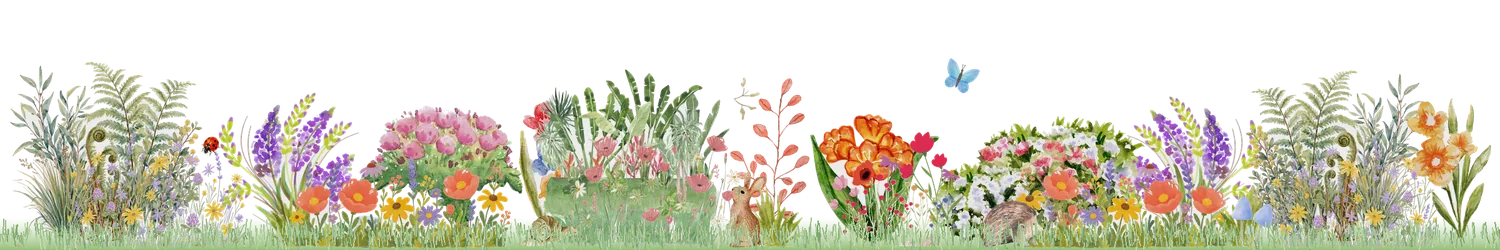
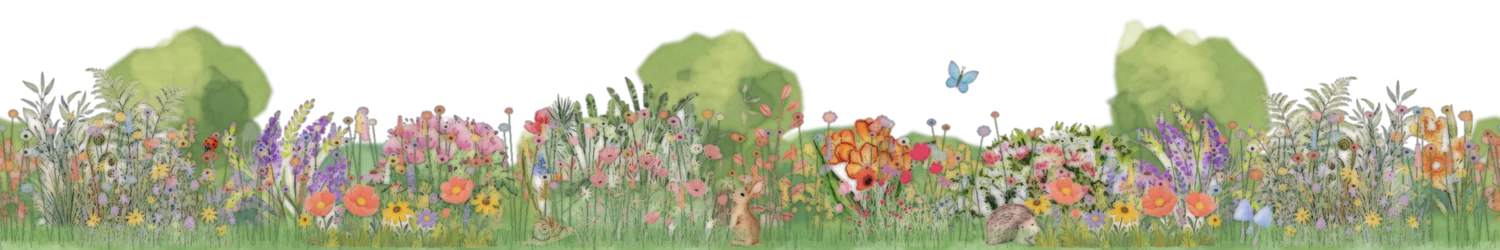
Watercolour repaint: welcome garden with creek and lilies, painted border, shed in its own garden; art guide
- New paint script hand-paints sky, hills, trees, creek, water lilies, bulrushes, shrubs and wildflowers, then one watercolour pass unifies everything
- Welcome garden adds a creek and lily pool, painted flower beds by the wisteria gate, a wooden welcome chair and table under a tree
- Flower border is fuller: painted hedges and trees behind, wildflowers throughout
- Resources page companion is now the shed in its own little garden with trees and flowers
- docs/CGN_Garden_Art_Guide.md: the look, palette, painting rules and cast (draft for Kate)

diff --git a/CGN_Hub.html b/CGN_Hub.html
@@ -1149,6 +1149,11 @@ a.doc-item:hover{transform:translateY(-2px); box-shadow:0 6px 0 var(--wood-dark)
 
 /* leaf bullet in link lists */
 .info-block li>.g-ico, #rl p>.g-ico, li>.g-ico{width:19px; height:19px; vertical-align:-4px; margin-right:3px}
+
+/* painted vignette companions (e.g. the shed in its own garden) */
+.page-critter.scene{height:150px; max-width:200px; right:12px; bottom:-58px}
+.page-head.has-art:has(.scene){padding-right:210px}
+@media (max-width:780px){ .page-critter.scene{height:96px; max-width:124px; bottom:-40px} .page-head.has-art:has(.scene){padding-right:120px} }
 </style>
 </head>
 <body data-font="garden" data-bg="garden" data-sky="day">
@@ -1410,7 +1415,7 @@ function followCard(){
 /* ── Cozy secret-garden layer (injected by build_comm.py at GARDEN_JS) ──
    Welcome banner, page companions, garden almanac (live Ottawa forecast from
    Open-Meteo; monthly jobs from content/hub.json → "almanac"), incident form. */
-const G_ART={about:'bluebird',article:'armchair',find:'rabbit',start:'watering-can',coordinators:'hedgehog',guides:'carrots',faq:'snail','ws-upcoming':'chair-tools','ws-past':'greenhouse','ws-slides':'dragonfly',resources:'shed',contact:'door',incident:'lighthouse'};
+const G_ART={about:'bluebird',article:'armchair',find:'rabbit',start:'watering-can',coordinators:'hedgehog',guides:'carrots',faq:'snail','ws-upcoming':'chair-tools','ws-past':'greenhouse','ws-slides':'dragonfly',resources:'shed-scene',contact:'door',incident:'lighthouse'};
 /* Hand-drawn icon set in CGN colours (brick bowl, leaf green, straw, wood). Used in the sidebar, page titles and home tiles. */
 const G_ICO={
  home:`<path d="M4 15 16 5l12 10z" fill="#F38DB5"/><path d="M7 15v12h18V15" fill="#E9C592"/><path d="M13.5 27v-7.5h5V27" fill="#8A5A30"/><circle cx="22" cy="19.5" r="1.9" fill="#CFE6F7"/>`,
@@ -1433,7 +1438,7 @@ const G_ICO={
 };
 const gIco=k=>G_ICO[k]?`<svg class="g-ico" viewBox="0 0 32 32" fill="none" stroke="#4A3426" stroke-width="1.7" stroke-linecap="round" stroke-linejoin="round" aria-hidden="true">${G_ICO[k]}</svg>`:'';
 const gImg=(n,c)=>`<img class="${c}" src="assets/garden/${n}.webp" alt="" aria-hidden="true">`;
-function head(title,sub,key){const a=G_ART[key];return `<div class="page-head${a?' has-art':''}"><h1 class="page-title">${gIco(key)}${title}</h1>${sub?`<p class="page-sub">${sub}</p>`:''}${a?gImg(a,'page-critter'):''}</div><div class="tulips" aria-hidden="true"></div>`}
+function head(title,sub,key){const a=G_ART[key];return `<div class="page-head${a?' has-art':''}"><h1 class="page-title">${gIco(key)}${title}</h1>${sub?`<p class="page-sub">${sub}</p>`:''}${a?gImg(a,a.endsWith('-scene')?'page-critter scene':'page-critter'):''}</div><div class="tulips" aria-hidden="true"></div>`}
 function gardenSideArt(){return `<div class="sidebar-art">${gImg('shed','side-shed')}</div>`}
 function gardenHero(){
   return `<div class="hero">${gImg('wisteria','hero-wisteria')}${gImg('wisteria','hero-wisteria r')}

diff --git a/source/garden.js b/source/garden.js
@@ -1,7 +1,7 @@
 /* ── Cozy secret-garden layer (injected by build_comm.py at GARDEN_JS) ──
    Welcome banner, page companions, garden almanac (live Ottawa forecast from
    Open-Meteo; monthly jobs from content/hub.json → "almanac"), incident form. */
-const G_ART={about:'bluebird',article:'armchair',find:'rabbit',start:'watering-can',coordinators:'hedgehog',guides:'carrots',faq:'snail','ws-upcoming':'chair-tools','ws-past':'greenhouse','ws-slides':'dragonfly',resources:'shed',contact:'door',incident:'lighthouse'};
+const G_ART={about:'bluebird',article:'armchair',find:'rabbit',start:'watering-can',coordinators:'hedgehog',guides:'carrots',faq:'snail','ws-upcoming':'chair-tools','ws-past':'greenhouse','ws-slides':'dragonfly',resources:'shed-scene',contact:'door',incident:'lighthouse'};
 /* Hand-drawn icon set in CGN colours (brick bowl, leaf green, straw, wood). Used in the sidebar, page titles and home tiles. */
 const G_ICO={
  home:`<path d="M4 15 16 5l12 10z" fill="#F38DB5"/><path d="M7 15v12h18V15" fill="#E9C592"/><path d="M13.5 27v-7.5h5V27" fill="#8A5A30"/><circle cx="22" cy="19.5" r="1.9" fill="#CFE6F7"/>`,
@@ -24,7 +24,7 @@ const G_ICO={
 };
 const gIco=k=>G_ICO[k]?`<svg class="g-ico" viewBox="0 0 32 32" fill="none" stroke="#4A3426" stroke-width="1.7" stroke-linecap="round" stroke-linejoin="round" aria-hidden="true">${G_ICO[k]}</svg>`:'';
 const gImg=(n,c)=>`<img class="${c}" src="assets/garden/${n}.webp" alt="" aria-hidden="true">`;
-function head(title,sub,key){const a=G_ART[key];return `<div class="page-head${a?' has-art':''}"><h1 class="page-title">${gIco(key)}${title}</h1>${sub?`<p class="page-sub">${sub}</p>`:''}${a?gImg(a,'page-critter'):''}</div><div class="tulips" aria-hidden="true"></div>`}
+function head(title,sub,key){const a=G_ART[key];return `<div class="page-head${a?' has-art':''}"><h1 class="page-title">${gIco(key)}${title}</h1>${sub?`<p class="page-sub">${sub}</p>`:''}${a?gImg(a,a.endsWith('-scene')?'page-critter scene':'page-critter'):''}</div><div class="tulips" aria-hidden="true"></div>`}
 function gardenSideArt(){return `<div class="sidebar-art">${gImg('shed','side-shed')}</div>`}
 function gardenHero(){
   return `<div class="hero">${gImg('wisteria','hero-wisteria')}${gImg('wisteria','hero-wisteria r')}

diff --git a/source/garden_theme.css b/source/garden_theme.css
@@ -301,3 +301,8 @@ a.doc-item:hover{transform:translateY(-2px); box-shadow:0 6px 0 var(--wood-dark)
 
 /* leaf bullet in link lists */
 .info-block li>.g-ico, #rl p>.g-ico, li>.g-ico{width:19px; height:19px; vertical-align:-4px; margin-right:3px}
+
+/* painted vignette companions (e.g. the shed in its own garden) */
+.page-critter.scene{height:150px; max-width:200px; right:12px; bottom:-58px}
+.page-head.has-art:has(.scene){padding-right:210px}
+@media (max-width:780px){ .page-critter.scene{height:96px; max-width:124px; bottom:-40px} .page-head.has-art:has(.scene){padding-right:120px} }

diff --git a/docs/CGN_Garden_Art_Guide.md b/docs/CGN_Garden_Art_Guide.md
@@ -1,0 +1,59 @@
+# CGN Hub: garden art guide
+
+**Status:** draft for Kate's review (November 13, 2026).
+
+This guide describes the look of the CGN Hub, so that new pictures, posters and newsletters feel like they come from the same garden.
+
+## The idea
+
+**A secret community garden you can wander into.** The Hub is a cozy, hand-made watercolour garden: a barn on the hill, a creek with water lilies, a wisteria gate, a little green shed, raised beds and a chair waiting for a visitor. It should feel calm, welcoming and a little magical, like a storybook or a cozy video game. It should also stay clear and easy to use for gardeners of all ages.
+
+## Painting rules
+
+1. **One painting, not a collage.** Every picture has ground, light and air that tie it together. Nothing floats: things stand *in* the grass, with a soft shadow, and flowers grow up in front of them.
+2. **Watercolour, not clip-art.** Use soft washes, edges where the pigment pools a little darker, white paper left for clouds and highlights, and a light paper grain. Avoid hard black outlines and flat digital fills.
+3. **Light from the upper left.** Lighter leaves on the top-left of trees and shrubs, deeper greens underneath and to the right.
+4. **Depth by haze.** Far hills and trees are paler and bluer. Near things are richer and warmer.
+5. **Full, mixed planting.** Beds and borders are layered: hedge or shrub at the back, tall flowers (lupins, lavender, foxgloves) in the middle, poppies, daisies and grass in front. Mix five or six flower colours, and never leave a single plant on its own.
+6. **Whimsy in the corners.** Each scene hides one or two small friends, such as a bee, bluebird, rabbit, hedgehog, snail, dragonfly, goose or butterfly. Keep them small, gentle and true to Ottawa gardens.
+7. **Words stay off the paintings,** except a small wooden "CGN Hub" sign. All other text lives in the page, where it can be translated and read aloud.
+
+## Palette
+
+| Role | Colour | Hex |
+|---|---|---|
+| Ink (text, outlines) | warm walnut | `#4A3426` |
+| Paper / cards | cream | `#FFF8EA` |
+| Just Food green (buttons, links) | forest | `#1A6B54` |
+| Leaves | deep / mid / sunlit | `#407648` · `#6EA654` · `#B4D470` |
+| Meadow | spring grass | `#96C268` |
+| Sky and water | soft blue / creek | `#9EC8E4` · `#80B8D2` |
+| Wood (signs, planks) | honey / bark | `#B37B46` · `#7A563A` |
+| Bowl brick (CGN logo) | terracotta | `#A94A22` |
+| Flowers | poppy, rose, butter, lupin, white | `#E86A5C` · `#F6A0B6` · `#FACE60` · `#B296D6` · `#FFFCF4` |
+
+## Type
+
+- **Grandstander** for titles and signboards: rounded and friendly.
+- **Fredoka** for reading text: clear and soft.
+- **VT323** for the almanac numbers: a small retro-game touch.
+
+## The garden's cast
+
+| Place | What lives there |
+|---|---|
+| Welcome garden (home) | Barn on the hill, creek and lily pool with bulrushes, wisteria gate, painted flower beds, greenhouse, green shed with bluebird, hen coop, crates of cabbages and beets, pumpkins, a wooden chair and little table under the tree, goose, rabbit, hedgehog, snail, dragonfly |
+| Flower border (every page) | Hedges and trees behind; ferns, lavender, lupins, roses, poppies, daisies; rabbit, hedgehog, snail, mushrooms, ladybug, butterfly |
+| Page companions | One friend per page, standing behind the flower strip: e.g. rabbit (Find a garden), watering can (Start a garden), hedgehog (Coordinators), the shed in its own little garden (Resources) |
+| Icons | Hand-drawn, walnut outline with soft fills in the palette above, e.g. a seedling in a bed (Start a garden), a pin (Find), a basket of books (Resources) |
+
+## Where the files are
+
+- Finished pictures: `assets/garden/` (`garden-scene.webp`, `garden-border.webp`, `shed-scene.webp`, and the critters).
+- Icons: `source/garden.js` → `G_ICO`.
+- How the paintings are made: `art-source/paint.py` (on Nadia's computer only). It paints the sky, hills, trees, creek, lilies, ground and wildflowers. Then it places the buildings and critters from the Canva inspiration board and runs one watercolour pass over everything. To re-make all three pictures, run `python3 art-source/paint.py art-source .`
+
+## Open questions for Kate
+
+- **Canva licence:** some buildings, vegetables and critters come from Canva elements. Confirm they are covered for public website use. The sky, hills, trees, creek, lilies, shrubs and wildflowers are painted in code, so they belong to the Hub.
+- Whether this look should also carry into posters, social posts and the newsletter header.

diff --git a/README.md b/README.md
@@ -60,13 +60,13 @@ The public Hub wears a "cozy game" skin: wooden signboards, parchment, a chalkbo
 | Welcome banner, almanac, incident form | `source/garden.js` | Injected by the build |
 | This month's garden jobs and veggie notes | `content/hub.json` → `"almanac"` | One entry per month, EN + FR; adapted from the CGN Garden Guide |
 | Pictures (bee, clouds, critters…) | `assets/garden/` | Keep the same file names to swap an image |
-| Welcome garden picture and the flower border | `assets/garden/garden-scene.webp`, `assets/garden/garden-border.webp` | Each is one composed illustration (barn, greenhouse, shed, pond, beds, flowers, critters arranged into a single garden), not separate stickers. Replace the file to change it |
+| Welcome garden picture and the flower border | `assets/garden/garden-scene.webp`, `assets/garden/garden-border.webp` | Watercolour paintings made by `art-source/paint.py` (see [docs/CGN_Garden_Art_Guide.md](docs/CGN_Garden_Art_Guide.md)). `shed-scene.webp` is the Resources page companion |
 | Sidebar, page-title and home-tile icons | `source/garden.js` → `G_ICO` | A small hand-drawn icon set in CGN colours (replaces emoji). One entry per page |
 
 - **Garden almanac:** season, frost nights, rain and warmest day come live from [Open-Meteo](https://open-meteo.com/) (free, no account, no visitor data sent beyond a normal web request). If it cannot load, the tiles say so and link to Environment Canada.
 - **Sky:** changes with the visitor's clock (dawn, day, dusk, night). Add `?sky=dusk` (or `dawn`, `day`, `night`) to the address to preview one.
 - **Incident report page:** an example built from Just Food's EN and FR incident templates. It does not send or store anything yet; Kate decides where reports should go before it is switched on.
-- **Re-making the garden pictures:** the working files (cut-outs and the `compose.py` script that arranges them) are in `art-source/` on Nadia's computer only. They are deliberately not uploaded to GitHub. To rebuild both pictures: `python3 art-source/compose.py art-source .` (needs the Pillow library).
+- **Re-making the garden pictures:** the working files (cut-outs and the `compose.py` script that arranges them) are in `art-source/` on Nadia's computer only. They are deliberately not uploaded to GitHub. To repaint all three pictures: `python3 art-source/paint.py art-source .` (needs the Pillow library).
 - **Before going public:** confirm the Canva elements in `assets/garden/` are covered by Just Food's Canva licence for website use.
 
 ---
